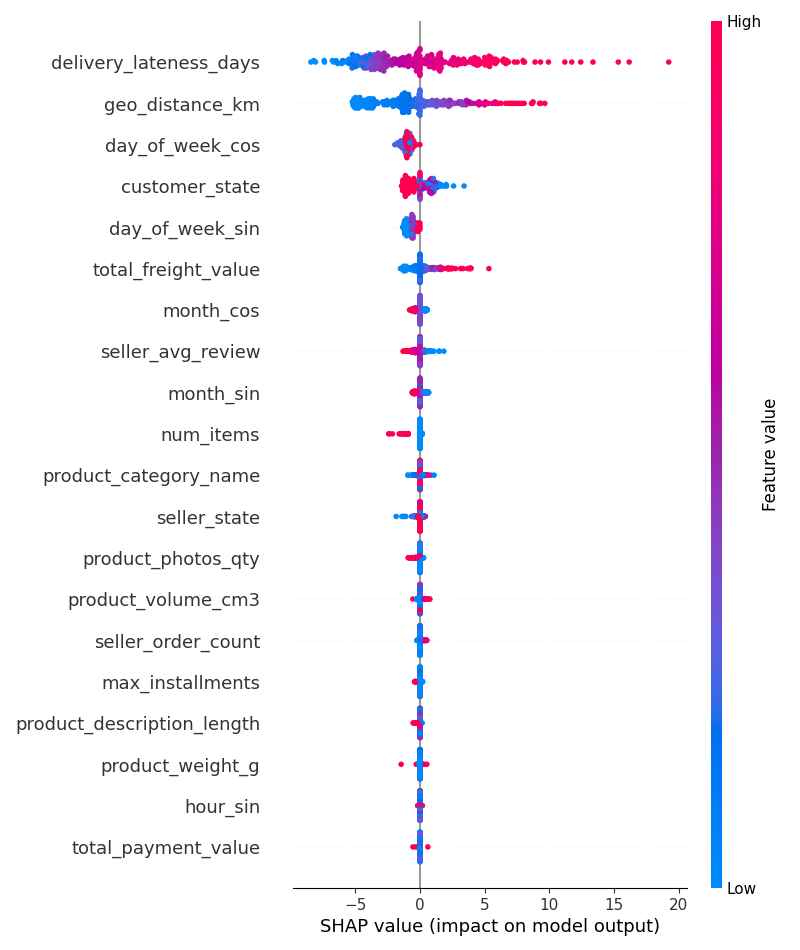
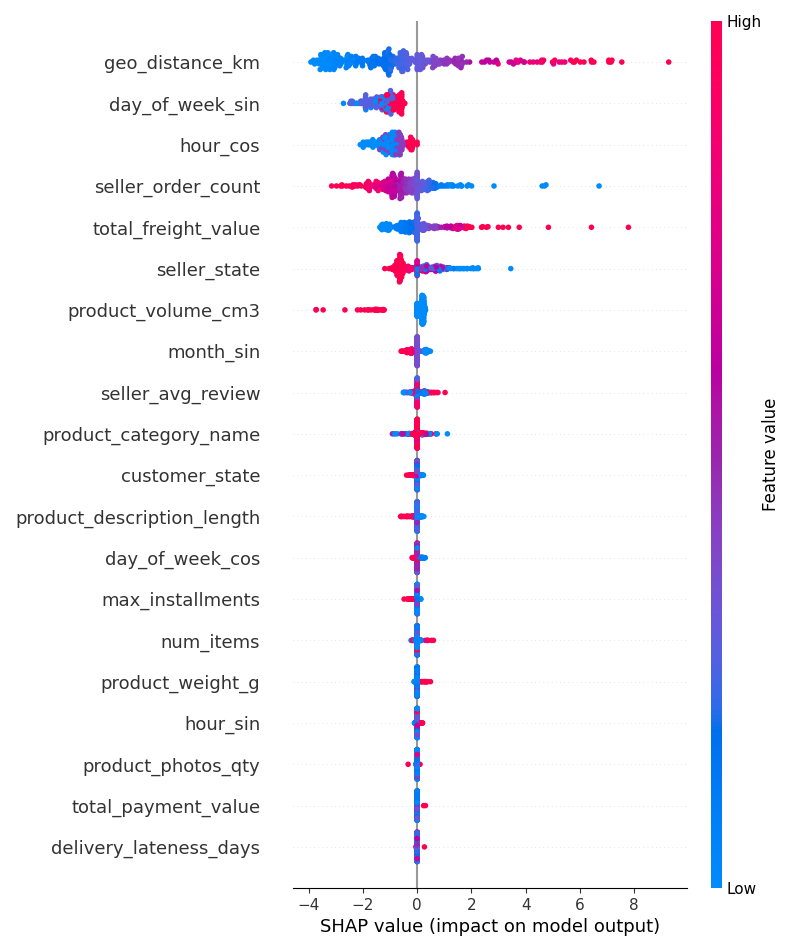
Updating reports

diff --git a/README.md b/README.md
@@ -141,7 +141,7 @@ A single `analytical_base_table` view is built via **5 CTEs** that handle the on
 - **`seller_stats`** — Computes historical order count per seller.
 - **`seller_reviews`** — Computes historical average review score per seller.
 
-The final `SELECT` joins all 8 tables, computes `delivery_days` (date diff between purchase and delivery) and `delivery_lateness_days` (date diff between estimated and actual delivery), and filters to **delivered orders only**.
+The final `SELECT` joins all 8 tables, computes `delivery_days` (date diff between purchase and delivery), and filters to **delivered orders only**.
 
 #### 3. Pydantic Data Contracts (`src/schemas.py`)
 
@@ -179,7 +179,7 @@ Statistical hypothesis testing to validate the core assumptions underpinning the
 - **Mann-Whitney (p ≈ 0, r=0.386):** Low-rated orders take significantly longer to deliver — statistically justifies the MMoE architecture.
 - **Spearman r=0.54 (p ≈ 0):** Strong positive correlation between geo distance and delivery time — validates `geo_distance_km` as a feature.
 - **Kruskal-Wallis (H=795, p ≈ 0):** Higher freight quartiles associate with lower review scores (Q1: 4.31 vs Q4: 3.94) — validates `total_freight_value` as a satisfaction feature.
-- **Chi-squared (p ≈ 0):** Negative review rate nearly doubles for late orders (14.8% → 27.9%) — confirms task correlation and motivates `delivery_lateness_days` as the key satisfaction feature.
+- **Chi-squared (p ≈ 0):** Negative review rate nearly doubles for late orders (14.8% → 27.9%) — confirms the intrinsic link between delivery performance and customer satisfaction.
 
 ---
 
@@ -213,7 +213,7 @@ The feature building script loads the split Parquet data and applies the preproc
 
 ### Preprocessed Data (`data/preprocessed/`)
 
-The preprocessed data is saved in the `data/preprocessed/` directory as NumPy arrays. The final feature matrix has **21 columns**: 12 numeric + 3 ordinal categorical + 6 cyclic temporal. Arrays are saved as `train_features.npy`, `val_features.npy`, and `test_features.npy` for features, with corresponding target arrays for each task.
+The preprocessed data is saved in the `data/preprocessed/` directory as NumPy arrays. The final feature matrix has **20 columns**: 11 numeric + 3 ordinal categorical + 6 cyclic temporal. Arrays are saved as `train_features.npy`, `val_features.npy`, and `test_features.npy` for features, with corresponding target arrays for each task.
 
 ---
 
@@ -238,24 +238,24 @@ A custom PyTorch `Dataset` that loads the preprocessed `.npy` arrays for feature
 
 ### Training Infrastructure (`src/models/train.py`)
 
-| Hyperparameter      | Value                     |
-| ------------------- | ------------------------- |
-| `input_dim`         | 21                        |
-| `num_experts`       | 3                         |
-| `hidden_dim`        | 64                        |
-| `num_hidden_layers` | 1                         |
-| `num_epochs`        | 10                        |
-| `batch_size`        | 32                        |
-| `learning_rate`     | 0.001                     |
-| `optimizer`         | AdamW (weight_decay=0.01) |
-| `temperature`       | 0.7 (gating softmax)      |
-| `sampler`           | WeightedRandomSampler     |
+| Hyperparameter       | Value                                       |
+| -------------------- | ------------------------------------------- |
+| `input_dim`          | 20                                          |
+| `num_experts`        | 5                                           |
+| `hidden_dim`         | 64                                          |
+| `num_hidden_layers`  | 1                                           |
+| `num_epochs`         | 10                                          |
+| `batch_size`         | 32                                          |
+| `learning_rate`      | 0.001 (model), 0.01 (loss weights)          |
+| `optimizer`          | Adam (separate param groups)                |
+| `temperature`        | 0.3 (gating softmax)                        |
+| `sampler`            | WeightedRandomSampler                       |
 
-`WeightedRandomSampler` is used to address the 3:1 class imbalance in the satisfaction task during training, oversampling the minority (negative review) class without artificially inflating the loss.
+`WeightedRandomSampler` is used to address the ~5:1 class imbalance in the satisfaction task during training, oversampling the minority (negative review) class without artificially inflating the loss.
 
 ### Experiment Tracking
 
-**20 experiments** were tracked end-to-end via MLflow, logging:
+**37 experiments** were tracked end-to-end via MLflow, logging:
 
 - All hyperparameters per run
 - Per-epoch train & validation losses for both tasks
@@ -266,7 +266,7 @@ A custom PyTorch `Dataset` that loads the preprocessed `.npy` arrays for feature
 
 ### 🏆 Best Model — Run 12
 
-After 20 experiments, **Run 12** achieved the best balanced accuracy on the satisfaction task while maintaining the strongest delivery regression results.
+After 37 experiments, **Run 12** achieved the best balanced accuracy on the satisfaction task while maintaining strong delivery regression results.
 
 #### Final Test Metrics
 
@@ -306,12 +306,14 @@ Delivery loss converges steadily throughout training. Satisfaction loss plateaus
 
 | Run    | Delivery MAE | Delivery RMSE | Balanced Acc |    F1     |
 | ------ | :----------: | :-----------: | :----------: | :-------: |
-| 7      |     4.72     |     5.67      |    62.1%     |   83.7%   |
-| 11     |     4.24     |     5.20      |    61.8%     |   83.6%   |
 | **12** |   **4.24**   |   **5.26**    |  **62.5%**   | **85.9%** |
-| 13     |     4.32     |     5.31      |    62.1%     |   86.3%   |
+| 19     |     3.36     |     4.65      |    57.5%     |   86.8%   |
+| 20     |     3.74     |     4.80      |    57.7%     |   87.0%   |
+| 35     |     3.48     |     4.59      |    59.7%     |   78.8%   |
+| 36     |     4.18     |     5.08      |    61.1%     |   79.4%   |
+| 37     |     3.79     |     4.81      |    60.6%     |   79.4%   |
 
-Run 12 is the best model — it achieves the highest balanced accuracy (the primary metric for the imbalanced satisfaction task) while matching Run 11's delivery MAE.
+Later runs (19–20) improved delivery MAE significantly (~3.4–3.7 days) but at the cost of satisfaction balanced accuracy (~57–58%). Runs 35–37 explored trading overall accuracy for better minority-class discrimination (TN rates up to 49.9%), pushing balanced accuracy back toward ~61%. Run 12 remains the best model by balanced accuracy — the primary metric for the imbalanced satisfaction task.
 
 ---
 
@@ -325,11 +327,12 @@ A `SHAPExplainer` class wraps the frozen MMoE model and uses **KernelSHAP** to c
 
 **Key findings:**
 
-- **`delivery_lateness_days`** is the dominant driver — high lateness (pink) pushes delivery time predictions strongly positive (up to +20 SHAP units). This is expected: lateness is directly derived from actual delivery time.
-- **`geo_distance_km`** is the second strongest feature. High distance → significantly longer delivery, validating the Haversine engineering step.
-- **`day_of_week_cos/sin`** rank 3rd and 5th — the day an order is placed meaningfully affects delivery time, likely reflecting warehouse processing schedules and weekend cutoffs.
-- **`total_freight_value`** has moderate impact — high freight values push delivery predictions up, correlating with remote or heavy shipments.
-- Features below `total_freight_value` (`seller_avg_review`, `month_sin/cos`, `product_category_name`, etc.) have minimal individual impact on delivery predictions.
+- **`geo_distance_km`** is the dominant driver — high distance (pink) pushes delivery time predictions strongly positive (up to +10 SHAP units), validating the Haversine engineering step as the most valuable feature.
+- **`day_of_week_sin`** and **`hour_cos`** rank 2nd and 3rd — the day and hour an order is placed meaningfully affects delivery time, likely reflecting warehouse processing schedules, weekend cutoffs, and end-of-day shipping deadlines.
+- **`seller_order_count`** has high-magnitude outliers — very experienced sellers (high order counts) occasionally produce large positive SHAP values, suggesting high-volume sellers may be in remote logistics hubs.
+- **`total_freight_value`** has moderate bidirectional impact — high freight (pink) pushes delivery predictions up, correlating with heavier or more remote shipments.
+- **`seller_state`** and **`product_volume_cm3`** contribute moderately — geographic origin of the seller and package size both influence delivery logistics.
+- Features below the top 7 (`month_sin`, `seller_avg_review`, `product_category_name`, etc.) have minimal individual impact on delivery predictions.
 
 #### Customer Satisfaction — SHAP Summary
 
@@ -337,14 +340,15 @@ A `SHAPExplainer` class wraps the frozen MMoE model and uses **KernelSHAP** to c
 
 **Key findings:**
 
-- **`seller_avg_review`** is the single most impactful feature for satisfaction. Low seller reputation (blue) strongly pushes predictions toward dissatisfied (SHAP values down to -0.75), while high reputation (pink) pushes toward satisfied (+0.5). A seller's track record is the strongest proxy for the quality of service a customer will receive.
-- **`delivery_lateness_days`** is the second strongest driver. Late deliveries (high values, pink) push predictions toward dissatisfied, while early deliveries (blue) push toward satisfied — confirming the central hypothesis of the project.
-- **`product_category_name`** ranks third — certain product categories systematically generate more complaints, likely due to expectation mismatches in product descriptions.
-- **`num_items`** is fourth — multi-item orders (high values, pink) push predictions toward dissatisfied, likely because more items increase the chance of at least one issue.
-- **`geo_distance_km`** has surprisingly low impact on satisfaction (ranked ~12th), despite being the #2 delivery driver — suggesting customers care about lateness relative to the estimate, not absolute distance.
-- **`total_payment_value`**, **`product_weight_g`**, and temporal features have minimal impact on satisfaction predictions.
+- **`seller_order_count`** is the single most impactful feature for satisfaction — high-volume sellers (pink) push predictions strongly positive (up to +10 SHAP units), while low-volume sellers (blue) push toward dissatisfied. Seller experience is the strongest proxy for the quality of service a customer will receive.
+- **`hour_cos`** and **`day_of_week_sin`** rank 2nd and 3rd — temporal purchase patterns have significant predictive power, possibly capturing operational efficiency differences (orders placed during business hours vs. off-hours/weekends).
+- **`product_volume_cm3`** ranks 4th — larger products push predictions in both directions with high variance, likely reflecting category-dependent satisfaction patterns (large items may have higher damage/return rates, but also higher engagement when they arrive well).
+- **`seller_avg_review`** ranks 5th — high seller reputation (pink) pushes toward satisfied, confirming that historical seller quality predicts future customer sentiment.
+- **`geo_distance_km`** has moderate impact (6th) — long-distance orders slightly push toward dissatisfied, though less impactful than for delivery predictions.
+- **`total_freight_value`**, **`num_items`**, **`product_category_name`**, and **`max_installments`** have minor contributions — most of the satisfaction signal is captured by seller characteristics and temporal features.
+- **`total_payment_value`**, **`product_photos_qty`**, and **`product_description_length`** rank at the bottom with near-zero SHAP impact.
 
-> The SHAP analysis reveals an important architectural insight: the two tasks share some features (`delivery_lateness_days`, `total_freight_value`) but prioritize them very differently. Satisfaction is dominated by seller reputation — a feature with negligible delivery impact — while delivery is dominated by geography and lateness. This divergence is precisely what MMoE's task-specific gating is designed to handle, allowing shared experts to learn common representations while the gates route relevant signals to each task head.
+> The SHAP analysis reveals an important architectural insight: the two tasks share features (`geo_distance_km`, `seller_order_count`, temporal features) but prioritize them very differently. Delivery is dominated by geography and logistics features, while satisfaction is dominated by seller reputation and experience. This divergence is precisely what MMoE's task-specific gating is designed to handle, allowing shared experts to learn common representations while the gates route relevant signals to each task head.
 
 ---
 
@@ -353,7 +357,7 @@ A `SHAPExplainer` class wraps the frozen MMoE model and uses **KernelSHAP** to c
 - [x] **Phase 0 — Data Engineering** — DuckDB warehouse, Pydantic contracts, data splits
 - [x] **Phase 1 — EDA & Hypothesis Testing** — Statistical validation of architecture assumptions
 - [x] **Phase 2 — Feature Engineering** — Haversine distance, temporal features, encoding pipelines
-- [x] **Phase 3 — MMoE Model + MLflow** — Multi-gate Mixture-of-Experts in PyTorch, 20-run experiment tracking, SHAP explainability
+- [x] **Phase 3 — MMoE Model + MLflow** — Multi-gate Mixture-of-Experts in PyTorch, 37-run experiment tracking, SHAP explainability
 - [ ] **Phase 4 — Model Export** — ONNX Runtime optimized inference
 - [ ] **Phase 5 — Serving** — FastAPI REST endpoint
 - [ ] **Phase 6 — CI/CD & UI** — GitHub Actions, Docker, Streamlit dashboard
